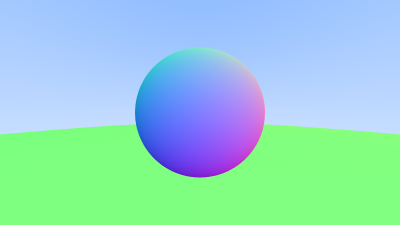
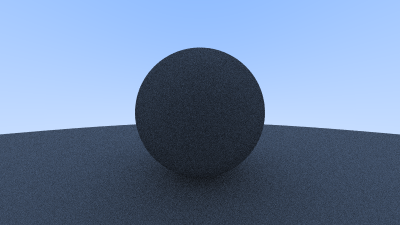
50% diffuse

diff --git a/include/camera.hpp b/include/camera.hpp
@@ -12,23 +12,32 @@
 #include <hittable.hpp>
 #include <sphere.hpp>
 
+struct CameraProps {
+    std::filesystem::path outputPath;
+    double aspectRatio = 1.0;
+    size_t imageWidth = 100;
+    size_t samplesPerPixel = 10;
+    size_t maxDepth = 10;
+};
+
 class Camera {
   public:
-    explicit Camera(std::string_view outputPath, double aspectRatio = 1.0,
-                    size_t imageWidth = 100, size_t samplesPerPixel = 10);
+    explicit Camera(CameraProps cameraProps);
 
     void render(const CHittable auto &world) {
 
         for (size_t j = 0; j < m_imageHeight; ++j) {
             fmt::print("Scanlines remaining: {}.\n", m_imageHeight - j);
 
-            for (size_t i = 0; i < m_imageWidth; ++i) {
+            for (size_t i = 0; i < m_cameraProps.imageWidth; ++i) {
                 auto pixelColor = Color{0, 0, 0};
 
-                for (size_t sample = 0; sample < m_samplesPerPixel; ++sample) {
+                for (size_t sample = 0; sample < m_cameraProps.samplesPerPixel;
+                     ++sample) {
                     auto ray = getRay(i, j);
-                    pixelColor +=
-                        convertColor(rayColor(ray, world), m_samplesPerPixel);
+                    pixelColor += convertColor(
+                        rayColor(ray, m_cameraProps.maxDepth, world),
+                        m_cameraProps.samplesPerPixel);
                 }
 
                 auto colorArray = std::array<uint8_t, 3>{
@@ -43,19 +52,28 @@ class Camera {
 
         // Windows doesn't play nicely with save_png and
         // std::filesystem, so we have to convert twice.
-        m_image.save_png(m_outputPath.string().c_str());
+        m_image.save_png(m_cameraProps.outputPath.string().c_str());
 
-        fmt::print("\nImage saved to \"{}\".\n", m_outputPath.string());
+        fmt::print("\nImage saved to \"{}\".\n",
+                   m_cameraProps.outputPath.string());
     }
 
   private:
     void initialize();
 
-    auto rayColor(const Ray &ray, const CHittable auto &world) const -> Color {
+    auto rayColor(const Ray &ray, size_t depth,
+                  const CHittable auto &world) const -> Color {
 
-        auto record = world.hit(ray, Interval{0, s_infinity});
+        if (depth == 0) {
+            return Color{0, 0, 0};
+        }
+
+        const auto record = world.hit(ray, Interval{0, s_infinity});
+
         if (record) {
-            return 0.5 * (record->normal + Color{1, 1, 1});
+            const auto direction = randomOnHemisphere(record->normal);
+            return 0.5 *
+                   rayColor(Ray{record->point, direction}, depth - 1, world);
         }
 
         // Color background.
@@ -87,8 +105,7 @@ class Camera {
         return (pointX * m_pixelDeltaU) + (pointY * m_pixelDeltaV);
     }
 
-    double m_aspectRatio;
-    size_t m_imageWidth;
+    CameraProps m_cameraProps{};
 
     size_t m_imageHeight{};
     Point3 m_cameraCenter{};
@@ -97,11 +114,7 @@ class Camera {
     Vec3 m_pixelDeltaU{};
     Vec3 m_pixelDeltaV{};
 
-    size_t m_samplesPerPixel{};
-
     cimg_library::CImg<uint8_t> m_image{};
-
-    std::filesystem::path m_outputPath{};
 };
 
 #endif

diff --git a/src/camera.cpp b/src/camera.cpp
@@ -1,28 +1,28 @@
 #include <camera.hpp>
+#include <utility>
 
-Camera::Camera(std::string_view outputPath, double aspectRatio,
-               size_t imageWidth, size_t samplesPerPixel)
-    : m_aspectRatio{aspectRatio}, m_imageWidth{imageWidth},
-      m_samplesPerPixel{samplesPerPixel}, m_outputPath{outputPath} {
+Camera::Camera(CameraProps cameraProps)
+    : m_cameraProps{std::move(cameraProps)} {
     initialize();
 }
 
 void Camera::initialize() {
     m_imageHeight =
-        static_cast<size_t>(static_cast<double>(m_imageWidth) / m_aspectRatio);
+        static_cast<size_t>(static_cast<double>(m_cameraProps.imageWidth) /
+                            m_cameraProps.aspectRatio);
     m_imageHeight = (m_imageHeight < 1) ? 1 : m_imageHeight;
 
     constexpr auto focalLength = 1.0;
     constexpr auto viewportHeight = 2.0;
     const auto viewportWidth =
-        viewportHeight * (static_cast<double>(m_imageWidth) /
+        viewportHeight * (static_cast<double>(m_cameraProps.imageWidth) /
                           static_cast<double>(m_imageHeight));
     m_cameraCenter = Point3{};
 
     auto viewportU = Vec3{viewportWidth, 0, 0};
     auto viewportV = Vec3{0, -viewportHeight, 0};
 
-    m_pixelDeltaU = viewportU / static_cast<double>(m_imageWidth);
+    m_pixelDeltaU = viewportU / static_cast<double>(m_cameraProps.imageWidth);
     m_pixelDeltaV = viewportV / static_cast<double>(m_imageHeight);
 
     auto viewportUpperLeft = m_cameraCenter - Vec3{0, 0, focalLength} -
@@ -31,6 +31,6 @@ void Camera::initialize() {
 
     // Renderer.
     m_image = cimg_library::CImg<uint8_t>(
-        static_cast<unsigned int>(m_imageWidth),
+        static_cast<unsigned int>(m_cameraProps.imageWidth),
         static_cast<unsigned int>(m_imageHeight), 1u, 3u, 0u);
 }

diff --git a/src/main.cpp b/src/main.cpp
@@ -9,19 +9,23 @@
 
 auto main([[maybe_unused]] int argc, [[maybe_unused]] char *argv[]) -> int {
 
-    // Image.
-    constexpr auto aspectRatio = 16.0 / 9.0;
-    constexpr size_t imageWidth = 400u;
-    constexpr size_t samplesPerPixel = 100;
+    constexpr static auto s_aspectRatio = 16.0 / 9.0;
+    constexpr static size_t s_imageWidth = 400u;
+    constexpr static size_t s_samplesPerPixel = 100u;
+    constexpr static size_t s_maxDepth = 50u;
 
-    // World.
     auto world = HittableList{};
 
     world.add(std::make_shared<Sphere>(Point3{0, 0, -1}, 0.5));
     world.add(std::make_shared<Sphere>(Point3{0, -100.5, -1}, 100));
 
-    auto camera =
-        Camera{"output/image.png", aspectRatio, imageWidth, samplesPerPixel};
+    auto cameraProps = CameraProps{.outputPath = "output/image.png",
+                                   .aspectRatio = s_aspectRatio,
+                                   .imageWidth = s_imageWidth,
+                                   .samplesPerPixel = s_samplesPerPixel,
+                                   .maxDepth = s_maxDepth};
+
+    auto camera = Camera{cameraProps};
 
     camera.render(world);
 

diff --git a/include/vec3.hpp b/include/vec3.hpp
@@ -36,6 +36,12 @@ class Vec3 {
     [[nodiscard]]
     auto lengthSquared() const noexcept -> double;
 
+    [[nodiscard]]
+    static auto random() noexcept -> Vec3;
+
+    [[nodiscard]]
+    static auto random(double min, double max) noexcept -> Vec3;
+
   private:
     std::array<double, 3> m_vec;
 };
@@ -90,5 +96,28 @@ inline auto cross(const Vec3 &lhs, const Vec3 &rhs) noexcept -> Vec3 {
 }
 
 inline auto unitVector(const Vec3 &vec) -> Vec3 { return vec / vec.length(); }
+
+inline auto randomInUnitSphere() noexcept -> Vec3 {
+    while (true) {
+        auto point = Vec3::random(-1, 1);
+        if (point.lengthSquared() < 1) {
+            return point;
+        }
+    }
+}
+
+inline auto randomUnitVector() -> Vec3 {
+    return unitVector(randomInUnitSphere());
+}
+
+inline auto randomOnHemisphere(const Vec3 &normal) -> Vec3 {
+    auto onUnitSphere = randomUnitVector();
+
+    if (dot(onUnitSphere, normal) > 0.0) {
+        return onUnitSphere;
+    }
+
+    return -onUnitSphere;
+}
 
 #endif

diff --git a/src/vec3.cpp b/src/vec3.cpp
@@ -3,6 +3,8 @@
 #include <cassert>
 #include <cmath>
 
+#include <rtweekend.hpp>
+
 Vec3::Vec3() noexcept : m_vec{0, 0, 0} {}
 
 Vec3::Vec3(double value0, double value1, double value2) noexcept
@@ -54,6 +56,15 @@ auto Vec3::length() const -> double { return std::sqrt(lengthSquared()); }
 
 auto Vec3::lengthSquared() const noexcept -> double {
     return m_vec[0] * m_vec[0] + m_vec[1] * m_vec[1] + m_vec[2] * m_vec[2];
+}
+
+auto Vec3::random() noexcept -> Vec3 {
+    return Vec3{randomDouble(), randomDouble(), randomDouble()};
+}
+
+auto Vec3::random(double min, double max) noexcept -> Vec3 {
+    return Vec3{randomDouble(min, max), randomDouble(min, max),
+                randomDouble(min, max)};
 }
 
 constexpr auto fmt::formatter<Vec3>::parse(fmt::format_parse_context &ctx) {
